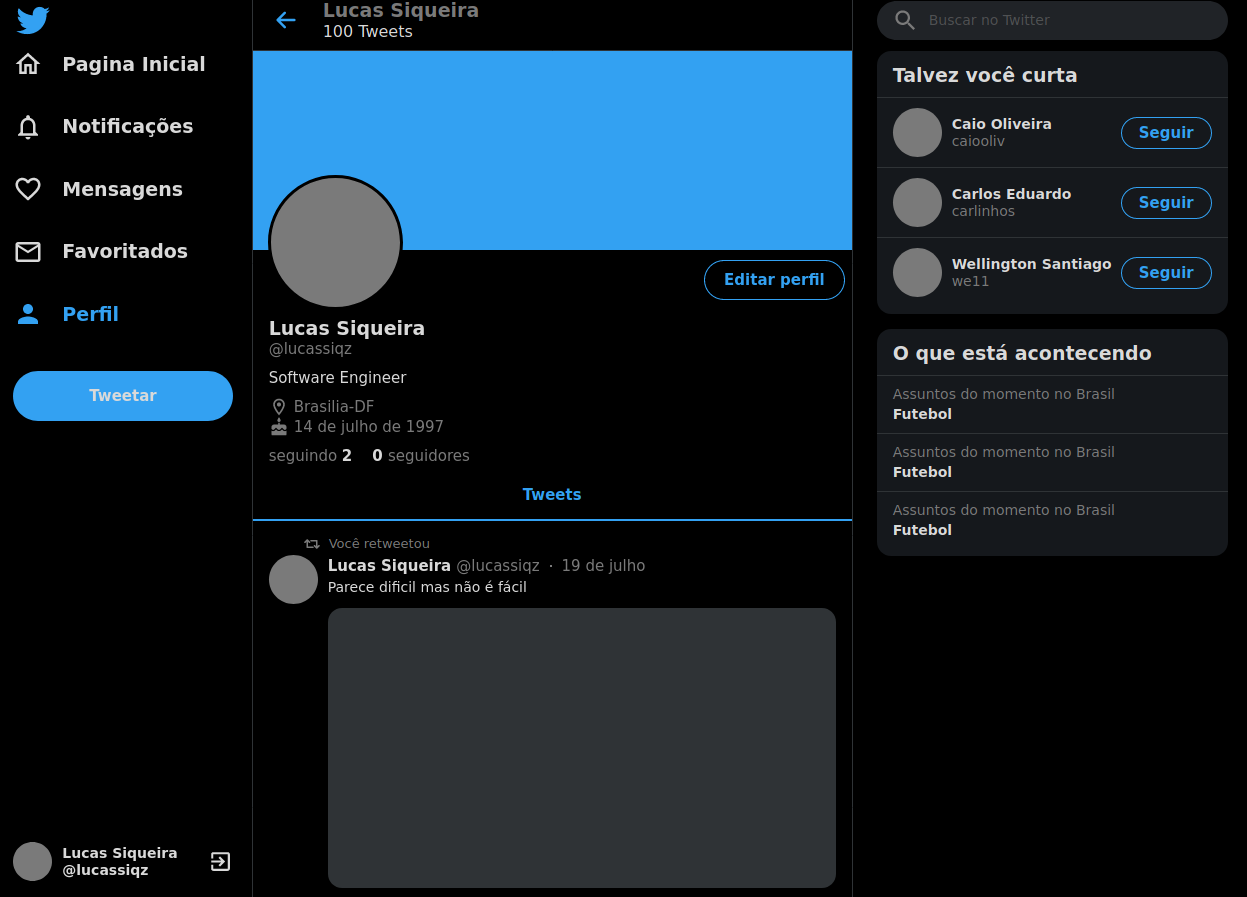
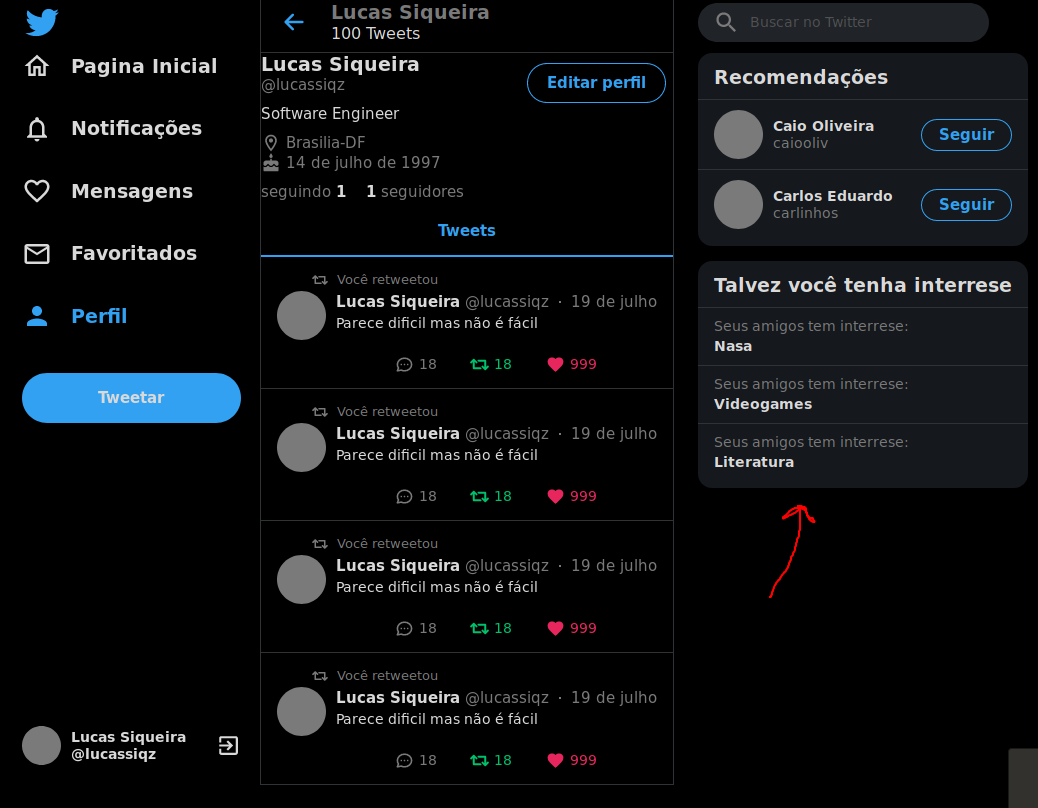
Adds readme

diff --git a/README.md b/README.md
@@ -1,4 +1,4 @@
-# TWTR
+# TWTR2
 
 **Número da Lista**: 2<br>
 **Conteúdo da Disciplina**: Grafos 2<br>
@@ -12,8 +12,26 @@
 
 ## Sobre 
 
+O projeto é um clone do twitter onde implementamos um sistema de recomendação de interesses. A funcionalidade foi feita a partir de um algoritmo de componentes fortemente conectados, sendo já iniciado com um usuário logado, onde é possível fazer logout e logar com outros usuários pré-cadastrados, chamada "Talvez você tenha interrese". O sistema não vai recomendar interesses pré-cadastrados que já estejam na lista de interesses, só serão recomendados interesses que estejam na lista de interesses de  usuários do seu grupo/panelinha/bolha (componente fortemente conectado). O projeto não possui banco de dados, as alterações só são mantidas enquanto o pagina esta em execução, ao atualizar a pagina por exemplo os dados voltam para o estado inicial, e fizemos um simples deploy, que pode ser acessado pelo link [https://grafos2-twtr2.netlify.app/](https://grafos2-twtr2.netlify.app/) para facilitar o teste do projeto, não sendo necessário nenhuma instalação adicional.
+
 
 ## Screenshots
+
+### Aba "Talvez você tenha interesse"
+
+<div>
+<img src="./img/twtr1.png" alt="drawing" width="700"/>
+</div>
+
+<br/>
+
+### Representação do gráfico de seguidores do projeto
+
+<div>
+<img src="./img/dfs.png" alt="drawing" width="700"/>
+</div>
+
+<br/>
 
 
 ## Instalação 
@@ -30,15 +48,15 @@
 - [Eslint](https://eslint.org/)
 - [Prettier](https://prettier.io/)
 
-O deploy da aplicação foi feito pelo netlify na url: 
+O deploy da aplicação foi feito pelo netlify na url: [https://grafos2-twtr2.netlify.app/](https://grafos2-twtr2.netlify.app/)
 
 Caso queira executar o projeto em sua maquina, é necessário ter o node instalado, recomendamos a utilização do yarn como gerenciador de pacotes, porém também pode ser utilizado com o npm, e siga os seguintes passos:
 
 Clone o repositório
-> git clone https://github.com/projeto-de-algoritmos/Grafos1_TWTR.git
+> git clone https://github.com/projeto-de-algoritmos/Grafos2_TWTR2.git
 
 Acesse a pasta
-> cd Grafos1_TWTR 
+> cd Grafos2_TWTR2
 
 Instale as dependências
 > yarn
@@ -59,12 +77,24 @@ Ao iniciar a aplicação, você pode trocar de usuário (a lista de usuários di
 - we11
 - an@_maria
 - mario
-- alex
 
-## Apresentação
-
+#### Interesses disponíveis:
+- Matemática
+- Videogames
+- Literatura
+- Nasa
+- Politica
+- Feminismo
+- Coronavirus
+- Economia
+- Filmes
+- Taratino
+- Series
+- Famosos
 
 ## Referências
+
+- [DFS](https://www.algorithms-and-technologies.com/dfs/javascript) 
 
 - [Twitter UI Clone Tutorial](https://www.youtube.com/watch?v=K-8z_4xvT3o&t)
 
